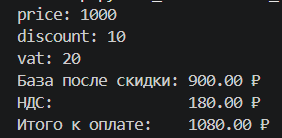
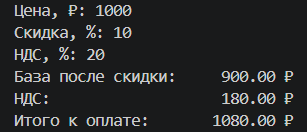
yes

diff --git a/src/lab_01/03_discounts_vat.py b/src/lab_01/03_discounts_vat.py
@@ -1,7 +1,7 @@
-price, discount, vat = int(input('price: ')), int(input('discount: ')), int(input('vat: '))
+price, discount, vat = float(input('Цена, ₽: ')), float(input('Скидка, %: ')), float(input('НДС, %: '))
 base = price * (1 - discount/100)
 vat_amount = base * (vat/100)
 total = base + vat_amount
-print(f'База после скидки: {base:.2f} ₽')
-print(f'НДС:               {vat_amount:.2f} ₽')
-print(f'Итого к оплате:    {total:.2f} ₽')
+print(f'База после скидки: {base:>10.2f} ₽')
+print(f'НДС:               {vat_amount:>10.2f} ₽')
+print(f'Итого к оплате:    {total:>10.2f} ₽')
